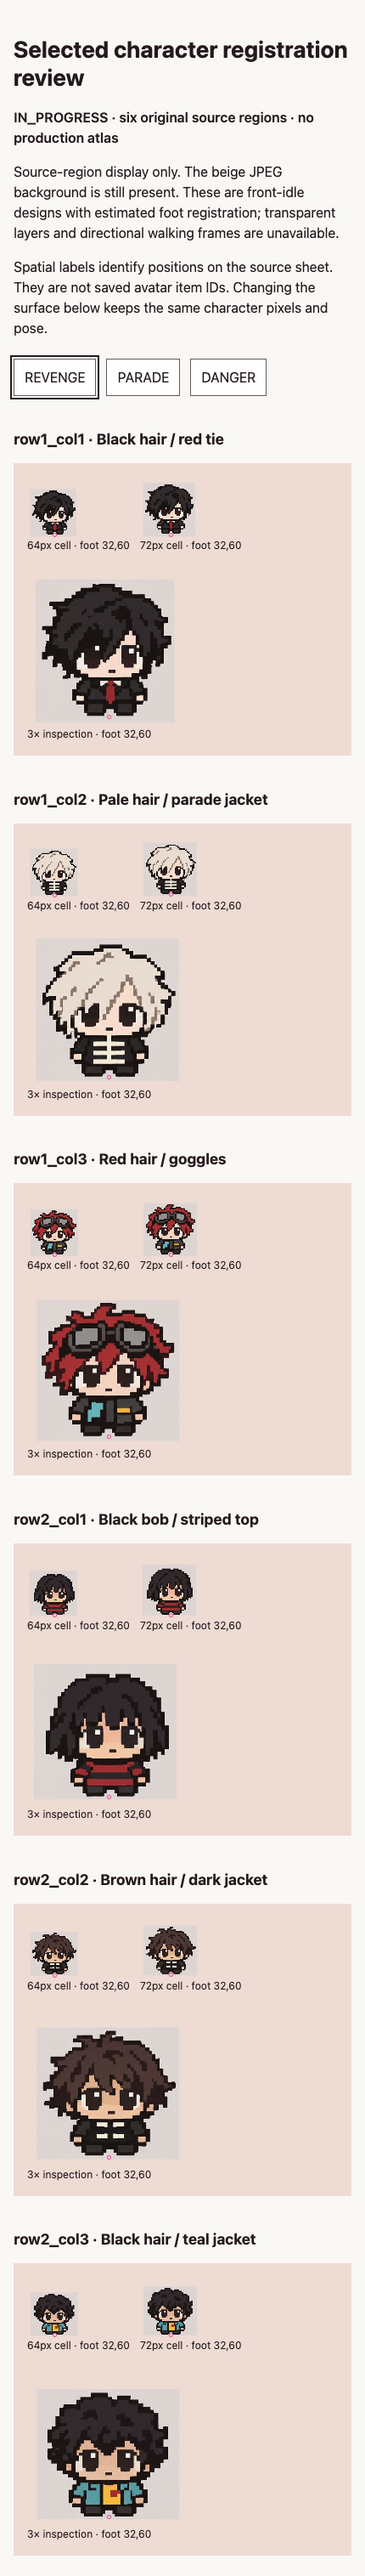
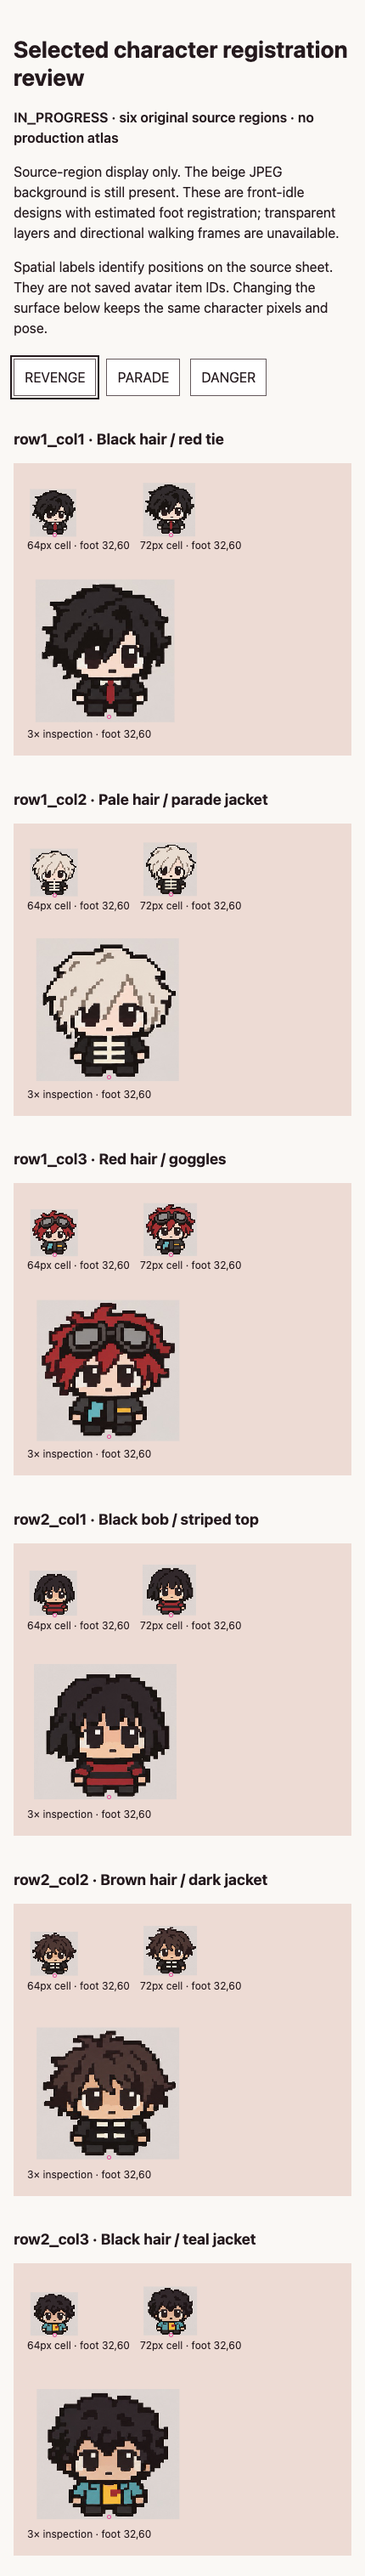
test(mcr/AR03): measure source outlines and await decoded review images

diff --git a/frontend/src/entities/avatar/derived-assets/review.html b/frontend/src/entities/avatar/derived-assets/review.html
@@ -68,6 +68,7 @@
     document.querySelectorAll('[data-theme]').forEach(other => other.setAttribute('aria-pressed',String(other === button)))
     document.documentElement.dataset.surface = button.dataset.theme
   }))
+  await Promise.all([...root.querySelectorAll('img')].map(img => img.decode()))
   document.getElementById('status').textContent = 'IN_PROGRESS · six original source regions · no production atlas'
   window.__MCR_ART_REVIEW__ = { sourceId: layout.source_id, sourceHash: layout.source_sha256, regions: layout.regions.length, productionEligible: false, pose: layout.pose }
 </script>

diff --git a/docs/mcr/art/runtime-assets.md b/docs/mcr/art/runtime-assets.md
@@ -23,6 +23,16 @@ cells, plus a 3× inspection cell, with the shared local `(32,60)` foot marker.
 The beige JPEG background remains visible. No new raster cutout is produced by
 the review fixture. Nearest-neighbor scaling preserves the source design for
 inspection; these contact-sheet window sizes are not a final pixel-grid design.
+Ready status waits for all eighteen displayed images to decode.
+
+The read-only source analysis in `source-registration.json` now measures dark
+outline bounds inside every window using a maximum-RGB-channel threshold of
+112. No measured dark outline touches a review-window boundary. A shoe-center
+estimate from the bottom eight dark-pixel rows differs from the descriptor's
+initial visual estimate by at most 5 source pixels horizontally and 2 vertically
+(under one pixel at the 64px review scale). The measured locations remain
+estimates, not validated alpha bounds, approved masks or actual foot landmarks.
+No source pixel is changed and no raster is generated by this analysis.
 
 Surface buttons use the current FE06 cream colors: REVENGE `#eddbd4`, PARADE
 `#333239`, DANGER `#d5e6e1`. They keep image URLs, crop geometry, pose and source
@@ -132,7 +142,7 @@ and existing `/Users/lhs/Desktop/mcr/frontend/node_modules/@playwright/test/inde
 
 | Check | Exit/result | Evidence |
 |---|---|---|
-| `verify.mjs` with installed Playwright, native Chrome 156.0.8078.80 | 0; twenty original hashes/lengths pass; six regions/18 views at 360/390/430; no horizontal overflow/page errors; three surface switches retain source URLs/geometry | [Machine report](evidence/source-registration.json) |
+| `verify.mjs` with installed Playwright, native Chrome 156.0.8078.80 | 0; twenty original hashes/lengths pass; six regions/18 decoded views at 360/390/430; no horizontal overflow/page errors; three surface switches retain source URLs/geometry; six source dark-outline bounds remain inside their review windows | [Machine report](evidence/source-registration.json) |
 | 390px visual inspection | Six complete source designs and foot markers visible; JPEG beige background visible as labeled | [390px capture](evidence/source-registration-390.png) |
 | 360px and 430px browser captures | Captured; no real mobile device claim | [360px](evidence/source-registration-360.png), [430px](evidence/source-registration-430.png) |
 | `python3 scripts/mcr/check-plan.py` | 0, PASS; planning/source archive checks only | No implementation acceptance inferred |
